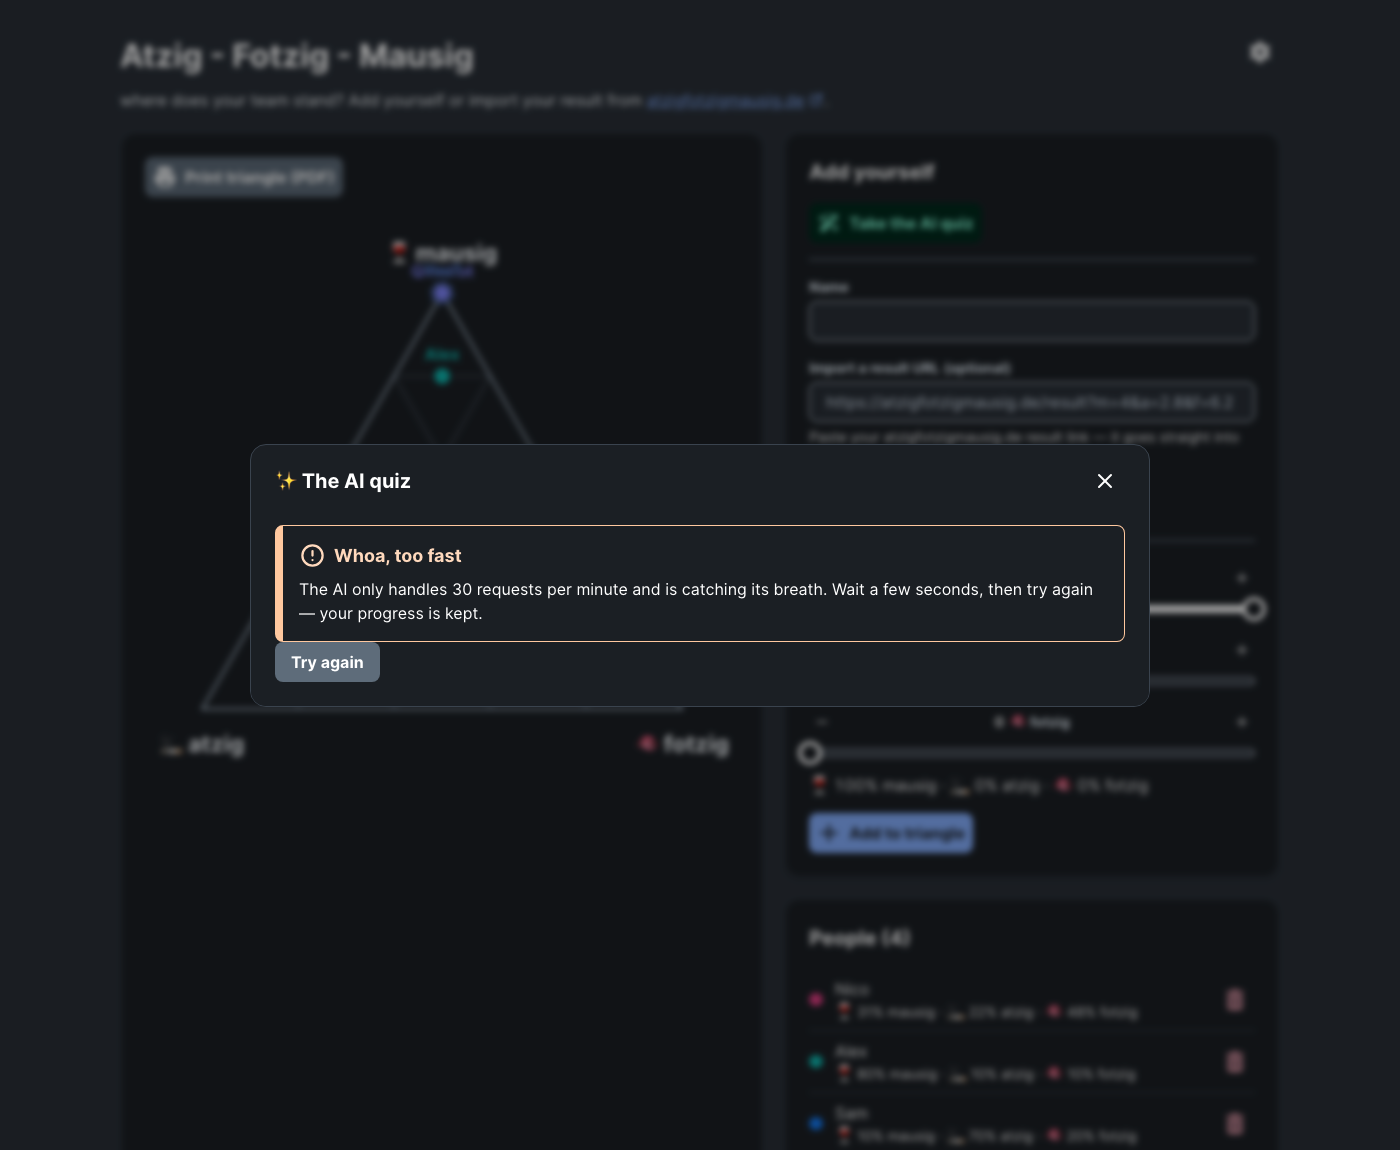
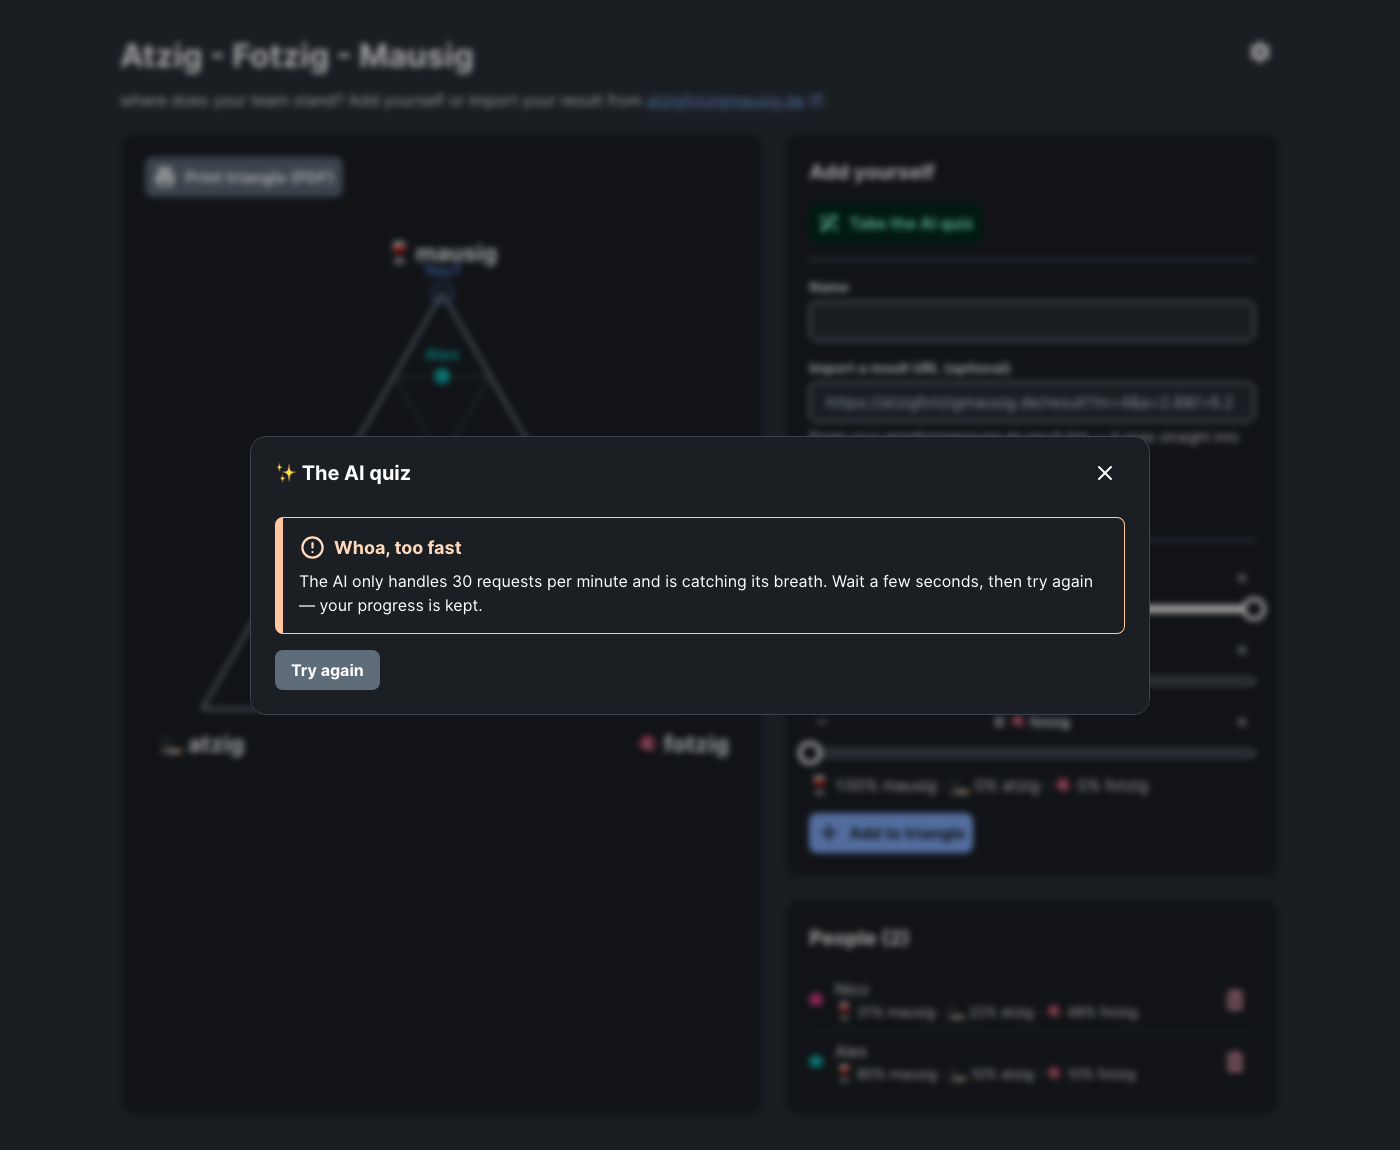
Fix modal spacing: consistent gaps between text, fields, and buttons

diff --git a/src/components/QuizModal.tsx b/src/components/QuizModal.tsx
@@ -259,7 +259,7 @@ export function QuizModal({
       <Heading>✨ The AI quiz</Heading>
       <Content>
         {phase === "intro" && (
-          <>
+          <div className="afm-modal-stack">
             <Text>
               Answer 15 questions and the AI figures out how mausig 🍷, atzig
               🚬, and fotzig 🫦 you are. The first 10 questions are generated
@@ -288,7 +288,7 @@ export function QuizModal({
                 {stored ? "Start over" : "Start quiz"}
               </Button>
             </div>
-          </>
+          </div>
         )}
 
         {phase === "loading" && (
@@ -306,7 +306,7 @@ export function QuizModal({
         )}
 
         {phase === "question" && current && (
-          <>
+          <div className="afm-modal-stack">
             <ProgressBar value={chosen.length} minValue={0} maxValue={total}>
               <Label>
                 Question {chosen.length + 1} of {total}
@@ -326,11 +326,11 @@ export function QuizModal({
                 </Button>
               ))}
             </div>
-          </>
+          </div>
         )}
 
         {phase === "result" && scores && (
-          <>
+          <div className="afm-modal-stack">
             <Heading size="s">Your result</Heading>
             <Text className="afm-quiz__result">
               {formatPercentages(scores)}
@@ -369,11 +369,11 @@ export function QuizModal({
                 Don't save
               </Button>
             </div>
-          </>
+          </div>
         )}
 
         {phase === "error" && (
-          <>
+          <div className="afm-modal-stack">
             {rateLimited ? (
               <Alert status="warning">
                 <Heading>Whoa, too fast</Heading>
@@ -392,7 +392,7 @@ export function QuizModal({
             <Button variant="soft" color="secondary" onPress={retry}>
               Try again
             </Button>
-          </>
+          </div>
         )}
       </Content>
     </Modal>

diff --git a/src/app.css b/src/app.css
@@ -160,6 +160,18 @@ body {
   flex: 1;
 }
 
+/* Modal layout: consistent vertical spacing between text, fields, and buttons */
+
+.afm-modal-stack {
+  display: flex;
+  flex-direction: column;
+  gap: 1rem;
+}
+
+.afm-modal-stack > .flow--button {
+  align-self: flex-start;
+}
+
 /* Quiz */
 
 .afm-quiz__loading {
@@ -184,7 +196,6 @@ body {
   display: block;
   font-size: 1.15rem;
   font-variant-numeric: tabular-nums;
-  margin-block-end: 0.5rem;
 }
 
 .afm-quiz__actions {

diff --git a/src/App.tsx b/src/App.tsx
@@ -447,6 +447,7 @@ export function App() {
       <Modal controller={deleteController} isDismissable showCloseButton>
         <Heading>Delete {pendingDelete?.name}?</Heading>
         <Content>
+          <div className="afm-modal-stack">
           {deleteError && (
             <Alert status="danger">
               <Content>{deleteError}</Content>
@@ -467,6 +468,7 @@ export function App() {
           ) : (
             <Text>This removes {pendingDelete?.name} from the triangle.</Text>
           )}
+          </div>
         </Content>
         <ActionGroup>
           <Button
@@ -493,6 +495,7 @@ export function App() {
       <Modal controller={adminController} isDismissable showCloseButton>
         <Heading>Admin settings</Heading>
         <Content>
+          <div className="afm-modal-stack">
           {adminError && (
             <Alert status="danger">
               <Content>{adminError}</Content>
@@ -520,6 +523,7 @@ export function App() {
               immediately.
             </FieldDescription>
           </TextField>
+          </div>
         </Content>
         <ActionGroup>
           <Button